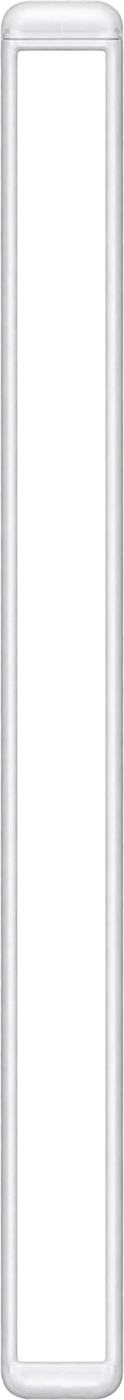
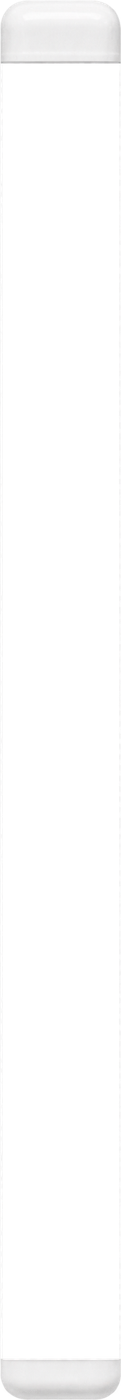
v2.15.2: new 14 mm PS2 and Wii spines
Glossy spine frames with a wide art window (baked checkerboard replaced by a real transparent window).

Claude-Session: https://claude.ai/code/session_01RqncBDxqrBqkveMMLFs7Hp

Changed region(s): [[0.0, 0.0, 1.0, 1.0], [0.5207, 0.9829, 0.6198, 1.0], [0.6694, 0.9829, 0.6942, 1.0]]

diff --git a/src/ZmbPs1Case.cs b/src/ZmbPs1Case.cs
@@ -23,10 +23,10 @@ namespace ZMB
             0.100, 0.970, 0.020, 0.978, 0.150, 0.862, 0.022, 0.978);
         public static readonly CaseOverlay Ps3 = new CaseOverlay("ps3", "PS3", 0.900, 0.1123,
             0.0523, 0.9486, 0.1182, 0.9579, 0.183, 0.822, 0.111, 0.953);
-        public static readonly CaseOverlay Ps2 = new CaseOverlay("ps2", "PS2", 0.7242, 0.0828,
-            0.0289, 0.9551, 0.0267, 0.9740, 0.1862, 0.8138, 0.0394, 0.9640);
-        public static readonly CaseOverlay Gcn = new CaseOverlay("gcn", "Wii", 0.6856, 0.0887,
-            0.0289, 0.9483, 0.0248, 0.9766, 0.1429, 0.8442, 0.0369, 0.9724);
+        public static readonly CaseOverlay Ps2 = new CaseOverlay("ps2", "PS2", 0.7242, 0.0793,
+            0.0289, 0.9551, 0.0267, 0.9740, 0.0539, 0.9581, 0.0351, 0.9725);
+        public static readonly CaseOverlay Gcn = new CaseOverlay("gcn", "Wii", 0.6856, 0.0864,
+            0.0289, 0.9483, 0.0248, 0.9766, 0.0217, 0.9837, 0.0455, 0.9704);
 
         // case dengan lapisan plastik untuk platform ini (null kalau tidak ada / gambar tidak ditemukan)
         public static CaseOverlay For(string platform)

diff --git a/src/ZmbMenus.cs b/src/ZmbMenus.cs
@@ -318,7 +318,7 @@ namespace ZMB
             help.Children = BuildHelpItems;
             l.Add(help);
 
-            XmbItem about = MakeItem("Tentang ZMB", "Versi 2.15.1  \u2022  Model 3D PS one: Vladimir_Sofyanov (Sketchfab, CC-BY 4.0)  \u2022  Enter: buka folder data", "\uE946", delegate { ShowInExplorer(Config.FilePath); });
+            XmbItem about = MakeItem("Tentang ZMB", "Versi 2.15.2  \u2022  Model 3D PS one: Vladimir_Sofyanov (Sketchfab, CC-BY 4.0)  \u2022  Enter: buka folder data", "\uE946", delegate { ShowInExplorer(Config.FilePath); });
             l.Add(about);
             return l;
         }

diff --git a/src/Program.cs b/src/Program.cs
@@ -3,7 +3,7 @@ using System.Threading;
 
 [assembly: System.Reflection.AssemblyTitle("ZMB")]
 [assembly: System.Reflection.AssemblyProduct("ZMB")]
-[assembly: System.Reflection.AssemblyVersion("2.15.1.0")]
+[assembly: System.Reflection.AssemblyVersion("2.15.2.0")]
 
 namespace ZMB
 {
